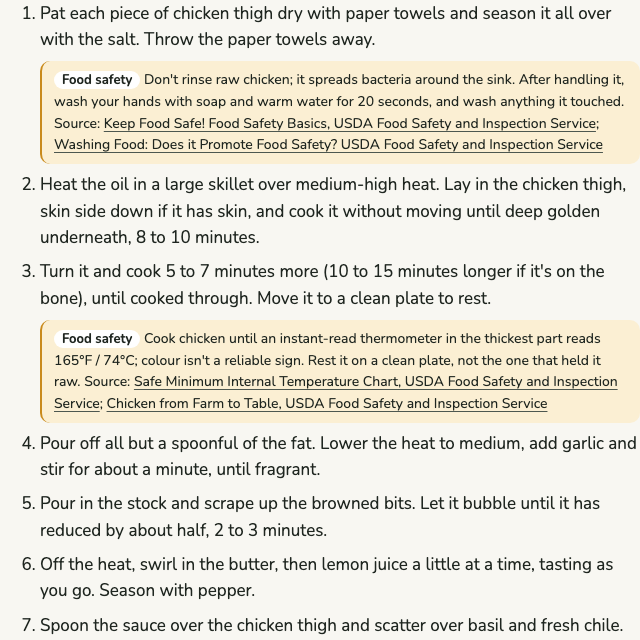
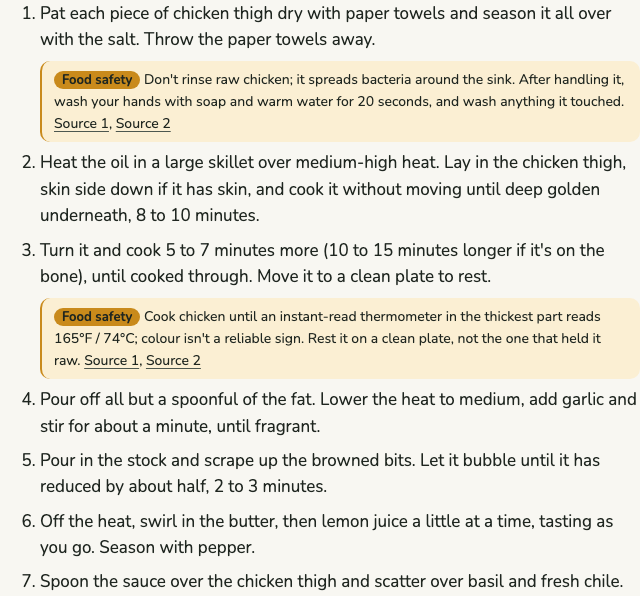
Sources link just the word, titled in a tooltip; Tooltip rebuilt on Floating UI (#13)
The Food safety label takes the rule's amber, with a new cautionInk
token for its text. Each source shows as Source (numbered when there
are several), its title the link's description in a tooltip. The app's
Tooltip moves onto @floating-ui/react so it stays on screen and wraps,
and gains a describes mode; no native title tooltips remain.

Changed region(s): [[0.0312, 0.0, 1.0, 0.4832], [0.0312, 0.5134, 1.0, 0.9362], [0.0312, 0.9664, 0.9688, 0.9966]]

diff --git a/src/components/Tooltip.tsx b/src/components/Tooltip.tsx
@@ -1,44 +1,76 @@
 "use client";
 
-import { useEffect, useState } from "react";
+import {
+  autoUpdate,
+  flip,
+  offset,
+  safePolygon,
+  shift,
+  useDismiss,
+  useFloating,
+  useFocus,
+  useHover,
+  useInteractions,
+} from "@floating-ui/react";
+import { cloneElement, useId, useState } from "react";
 import styles from "./Tooltip.module.css";
 
 type Props = {
-  /** What the tooltip says; the control it labels must carry the same words as its name, or be hidden. */
+  /** What the tooltip says. */
   label: string;
-  children: React.ReactNode;
+  /**
+   * How assistive technology hears it. By default it's visual only, for a control whose own name has
+   * the same words, such as an Ingredient's drawing. With `describes`, it's the control's description,
+   * such as a source's title on a link that just says "Source".
+   */
+  describes?: boolean;
+  /** One element, the control; with `describes`, it's given `aria-describedby`. */
+  children: React.ReactElement<{ "aria-describedby"?: string }>;
 };
 
 /**
- * A short label above something with no words of its own, such as an Ingredient's drawing. It shows on
- * hover and on keyboard focus, stays while the pointer is over it, and Escape dismisses it (WCAG 1.4.13).
- * Visual only: assistive technology hears the control's own name.
+ * A short label beside a control, above it where there's room. It shows on mouse hover and on keyboard
+ * focus, stays while the pointer is over it, and Escape dismisses it (WCAG 1.4.13). Touch has no hover,
+ * so the control must make sense without it.
  */
-export function Tooltip({ label, children }: Props) {
+export function Tooltip({ label, describes = false, children }: Props) {
   const [shown, setShown] = useState(false);
-  useEffect(() => {
-    if (!shown) return;
-    const dismiss = (event: KeyboardEvent) => {
-      if (event.key === "Escape") setShown(false);
-    };
-    document.addEventListener("keydown", dismiss);
-    return () => document.removeEventListener("keydown", dismiss);
-  }, [shown]);
+  const id = useId();
+  const { refs, floatingStyles, context } = useFloating({
+    open: shown,
+    onOpenChange: setShown,
+    placement: "top",
+    // Fixed, so a card or panel that clips its overflow doesn't clip the tooltip; it stays in place in the page.
+    strategy: "fixed",
+    middleware: [offset(6), flip(), shift({ padding: 8 })],
+    whileElementsMounted: autoUpdate,
+  });
+  const { getReferenceProps, getFloatingProps } = useInteractions([
+    useHover(context, { mouseOnly: true, handleClose: safePolygon() }),
+    useFocus(context),
+    useDismiss(context),
+  ]);
 
   return (
-    <span
-      className={styles.anchor}
-      onPointerEnter={(event) => event.pointerType === "mouse" && setShown(true)}
-      onPointerLeave={() => setShown(false)}
-      onFocus={(event) => event.target.matches(":focus-visible") && setShown(true)}
-      onBlur={() => setShown(false)}
-    >
-      {children}
-      {shown && (
-        <span className={styles.tooltip} aria-hidden="true">
+    <>
+      <span ref={refs.setReference} className={styles.anchor} {...getReferenceProps()}>
+        {describes ? cloneElement(children, { "aria-describedby": id }) : children}
+      </span>
+      {/* A description has to be in the page to be read, so it's hidden rather than left out. */}
+      {(shown || describes) && (
+        <span
+          ref={refs.setFloating}
+          id={id}
+          role={describes ? "tooltip" : undefined}
+          aria-hidden={describes ? undefined : true}
+          hidden={!shown}
+          className={styles.tooltip}
+          style={floatingStyles}
+          {...getFloatingProps()}
+        >
           {label}
         </span>
       )}
-    </span>
+    </>
   );
 }

diff --git a/e2e/recipe.spec.ts b/e2e/recipe.spec.ts
@@ -29,7 +29,36 @@ test("with an empty basket, a dish with a recipe fills its parts from the recipe
   const cooking = steps.filter({ hasText: "cooked through" });
   await expect(cooking).toContainText("Food safety");
   await expect(cooking).toContainText("165°F / 74°C");
-  await expect(cooking.getByRole("link", { name: /Safe Minimum Internal Temperature/ })).toBeVisible();
+  // Each source is a short link; its title is a tooltip, which screen readers hear as its description.
+  const source = cooking.getByRole("link", { name: "Source 1", exact: true });
+  await expect(source).toHaveAccessibleDescription(/^Safe Minimum Internal Temperature Chart/);
+  await expect(cooking.getByRole("link", { name: "Source 2", exact: true })).toHaveAccessibleDescription(
+    /^Chicken from Farm to Table/,
+  );
+  // What shows: the guidance, then just the words; the titles stay hidden until a tooltip opens.
+  // innerText breaks lines around each link's inline-flex anchor; on screen they sit in the sentence.
+  const shown = (await cooking.locator(".safety-note").innerText()).replace(/\s+/g, " ").replace(/ ,/g, ",").trim();
+  expect(shown).toMatch(/raw\. Source 1, Source 2$/);
+  await expect(source).not.toHaveAttribute("title");
+});
+
+test("a source's title shows in a tooltip on hover and on focus, and Escape closes it", async ({ page }) => {
+  await page.goto("/formulas/pan-sauce");
+  const cooking = page.getByRole("main").getByRole("list", { name: "Method" }).getByRole("listitem").filter({ hasText: "cooked through" });
+  const source = cooking.getByRole("link", { name: "Source 1", exact: true });
+  const tooltip = page.getByRole("tooltip");
+  await expect(tooltip).toHaveCount(0);
+
+  await source.hover();
+  await expect(tooltip).toHaveText(/^Safe Minimum Internal Temperature Chart/);
+  await page.mouse.move(0, 0);
+  await expect(tooltip).toHaveCount(0);
+
+  await source.focus();
+  await expect(tooltip).toHaveText(/^Safe Minimum Internal Temperature Chart/);
+  await page.keyboard.press("Escape");
+  await expect(tooltip).toHaveCount(0);
+  await expect(source).toBeFocused();
 });
 
 test("food safety guidance stands out from the step around it, on its own background", async ({ page }) => {

diff --git a/src/app/formulas/[id]/recipe.tsx b/src/app/formulas/[id]/recipe.tsx
@@ -1,10 +1,16 @@
 import { IngredientMark } from "@/components/IngredientMark";
+import { Tooltip } from "@/components/Tooltip";
 import type { Citation, Recipe, Suggestion } from "@/kitchen/kitchen";
 import { IngredientLink } from "../../ingredient-link";
 
 /** A source, linked when it's online. */
-function Source({ citation: { title, url } }: { citation: Citation }) {
-  return url ? <a href={url}>{title}</a> : <cite>{title}</cite>;
+function Source({ citation: { title, url }, label }: { citation: Citation; label: string }) {
+  // Just the word, so the guidance reads first; the title is its tooltip, and its description.
+  return (
+    <Tooltip label={title} describes>
+      {url ? <a href={url}>{label}</a> : <cite tabIndex={0}>{label}</cite>}
+    </Tooltip>
+  );
 }
 
 /** The finished dish's frame, and how long it takes and how many it serves. */
@@ -66,11 +72,11 @@ export function RecipeBody({ recipe }: { recipe: Recipe }) {
             {safety.map(({ ingredient, guidance }) => (
               <p key={ingredient.id} className="safety-note">
                 {/* Validation gives all safety guidance at least one citation. */}
-                <span className="tag">Food safety</span> {guidance.note} Source:{" "}
-                {guidance.citations.map((citation, j) => (
+                <span className="tag">Food safety</span> {guidance.note}{" "}
+                {guidance.citations.map((citation, j, { length }) => (
                   <span key={j}>
-                    {j > 0 && "; "}
-                    <Source citation={citation} />
+                    {j > 0 && ", "}
+                    <Source citation={citation} label={length > 1 ? `Source ${j + 1}` : "Source"} />
                   </span>
                 ))}
               </p>

diff --git a/src/design/tokens.ts b/src/design/tokens.ts
@@ -25,8 +25,10 @@ export type Palette = {
   danger: string;
   /** Behind guidance the Cook mustn't miss, such as food safety in a recipe's method. */
   caution: string;
-  /** The rule beside `caution` guidance (decorative; the label says what it is). */
+  /** The rule beside `caution` guidance, and its label's ground. */
   cautionLine: string;
+  /** Text on `cautionLine`, such as the "Food safety" label. */
+  cautionInk: string;
   /** Primary actions. */
   accent: string;
   /** Text on `accent`. */
@@ -48,6 +50,7 @@ export const palettes: Record<"light" | "dark", Palette> = {
     danger: "#b3261e",
     caution: "#fbefd3",
     cautionLine: "#c98a1b",
+    cautionInk: "#1f2620",
     accent: "#1f2620",
     accentInk: "#ffffff",
     focus: "#1f2620",
@@ -64,6 +67,7 @@ export const palettes: Record<"light" | "dark", Palette> = {
     danger: "#ff8f85",
     caution: "#33291a",
     cautionLine: "#d9a03a",
+    cautionInk: "#121412",
     accent: "#ebefe9",
     accentInk: "#121412",
     focus: "#ebefe9",
@@ -91,6 +95,7 @@ export const textPairings: [keyof Palette, keyof Palette][] = [
   ["ink", "caution"],
   ["inkMuted", "caution"],
   ["linkHover", "caution"],
+  ["cautionInk", "cautionLine"],
   ["accentInk", "accent"],
 ];
 

diff --git a/src/components/Tooltip.module.css b/src/components/Tooltip.module.css
@@ -1,15 +1,12 @@
 .anchor {
-  position: relative;
   display: inline-flex;
 }
 
-/* Centred above the anchor, a little apart from it. */
+/* Placed by the component: above the anchor where there's room, kept on screen. */
 .tooltip {
-  position: absolute;
-  bottom: calc(100% + var(--space-1) * 1.5);
-  left: 50%;
-  transform: translateX(-50%);
   z-index: 3;
+  width: max-content;
+  max-width: 20em;
   padding: var(--space-1) var(--space-2);
   border-radius: var(--radius-sm);
   background: var(--ink);
@@ -17,15 +14,5 @@
   font-family: var(--font-text);
   font-size: var(--text-xs);
   font-weight: var(--weight-bold);
-  white-space: nowrap;
   box-shadow: var(--shadow-raised);
-}
-
-/* Bridges the gap to the anchor, so the pointer can move onto the tooltip without it closing. */
-.tooltip::after {
-  content: "";
-  position: absolute;
-  inset-inline: 0;
-  top: 100%;
-  height: calc(var(--space-1) * 1.5);
 }

diff --git a/src/app/globals.css b/src/app/globals.css
@@ -915,9 +915,10 @@ main {
   font-size: var(--text-sm);
 }
 
+/* The label takes the rule's amber, so the two read as one mark. */
 .safety-note .tag {
-  background: var(--surface);
-  color: var(--ink);
+  background: var(--caution-line);
+  color: var(--caution-ink);
   font-weight: var(--weight-bold);
 }
 

diff --git a/docs/journal/0014-recipes.md b/docs/journal/0014-recipes.md
@@ -128,6 +128,21 @@ The role stays the part's heading, so screen readers and focus after a swap work
 | --- | --- |
 | ![](0014-recipes/after-safety-desktop-light.png) | ![](0014-recipes/after-safety-phone-dark.png) |
 
+Then the author asked for three changes. These are their choices except where noted:
+
+- **The label.** "Food safety" takes the rule's amber, so the two read as one mark. Text on it is a new `cautionInk` token: dark in both themes, since light ink fails on amber. Its contrast is checked like the rest.
+- **Sources.** Just the word now: "Source", or "Source 1, Source 2" when there are several (numbering them was my call, since one word can't link to two places). The title shows in a tooltip.
+- **Tooltips, app-wide, on a library.** The author asked for a tooltip component in place of the browser's own tooltips. The app's only native one was the `title` on a source link, and it already had a `Tooltip`, used on Ingredient drawings that stand without their names. Rather than run two, that `Tooltip` is rebuilt on Floating UI (`@floating-ui/react`, pinned at 0.27.20). It keeps what it did:
+  - it shows on mouse hover and on keyboard focus, not on touch;
+  - it stays while the pointer moves onto it;
+  - Escape dismisses it (WCAG 1.4.13).
+
+  It now also flips and shifts to stay on screen, and wraps long text. A new `describes` mode makes the tooltip the control's accessible description, kept in the page while hidden. A source link's name is "Source 1", and its description is the source's title. The drawings keep the visual-only mode, since their name is already the link's. The tooltip renders in place, with fixed positioning, so a card that clips its overflow can't clip it.
+
+| A source's tooltip, desktop light |
+| --- |
+| ![](0014-recipes/after-source-tooltip-desktop-light.png) |
+
 ## Tests
 
 - **Vitest, through `loadKitchen`:**
@@ -150,6 +165,7 @@ The role stays the part's heading, so screen readers and focus after a swap work
   - an empty basket shows the recipe as written, with timings, amounts and the cited cooking guidance;
   - the recipe follows the basket and a swap, amounts and method included;
   - food safety guidance sits on its own background, apart from its step;
+  - a source shows as "Source 1", with its title as the link's description, in a tooltip on hover and focus that Escape closes;
   - a dish without a recipe keeps its short method;
   - two aromatics from the basket, each with its full amount, and removing one then undoing;
   - ticking aromatics until all are in;
